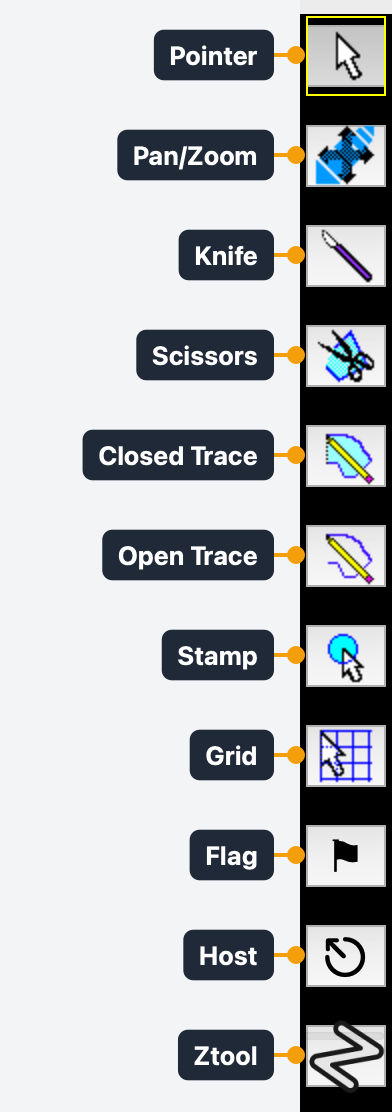
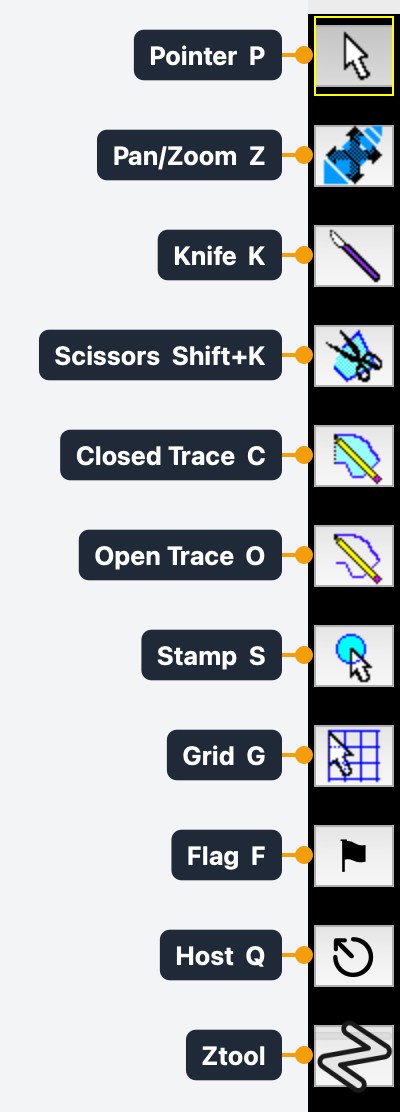
docs: User Guide pictures for updates, shortcuts on the tool palette
Section 2 gets the Help menu update rows, the update dialog (an example version that does not exist) and the status bar notice. The tool palette picture names each default shortcut, and the z-trace section says the palette calls it Ztool.

diff --git a/docs/USER_GUIDE.md b/docs/USER_GUIDE.md
@@ -195,6 +195,8 @@ changes since the previous nightly.
 
 ### Checking for updates
 
+![The update rows of the Help menu: Check for updates..., Automatically check for updates, which is checked, and Download PyReconstruct Dev (nightly)....](assets/images/user-guide/02-help-menu-updates.png)
+
 Choose **Help ▸ Check for updates…**. On an installed build, PyReconstruct checks
 GitHub Releases on the app's channel (off the main thread, so the UI stays
 responsive). If a newer build is found, an update dialog opens showing the new
@@ -207,7 +209,9 @@ the installation.
 If you are already current, you'll see a brief "You're already up to date"
 message; if no installer exists for your platform on that channel, it tells you so.
 
-> 📸 *Screenshot: the update dialog with its release-notes link and Download & Install button.*
+![The update dialog offering 9.9.9, an example version that does not exist: You have 1.25.0, channel Stable, download 178.7 MB, a Release notes for 9.9.9 link, and Later and Download & Install buttons.](assets/images/user-guide/02-update-dialog.png)
+
+The picture shows an example offer. Version 9.9.9 does not exist.
 
 ### Checking automatically on startup
 
@@ -218,6 +222,8 @@ background check at most **once per day**; if an upgrade is available,
 notice stays, across launches too, until you click it; clicking it opens the
 update just like **Help ▸ Check for updates…**. Turning the automatic check off
 also removes the notice.
+
+![The Update available notice on the right of the status bar, for the example version 9.9.9.](assets/images/user-guide/02-update-notice.png)
 
 ### Source / `pip` installs
 
@@ -465,7 +471,7 @@ In every tool except Pan/Zoom, **right-clicking the field** opens a context menu
 (for the selected traces, or for the field). The mouse wheel changes sections, and
 middle-click pans, regardless of the active tool.
 
-![The tool palette column, each button labeled with its tool: Pointer, Pan/Zoom, Knife, Scissors, Closed Trace, Open Trace, Stamp, Grid, Flag, Host and Ztool.](assets/images/user-guide/06-tool-palette-labeled.png)
+![The tool palette column, each button labeled with its tool and default shortcut: Pointer P, Pan/Zoom Z, Knife K, Scissors Shift+K, Closed Trace C, Open Trace O, Stamp S, Grid G, Flag F, Host Q, and Ztool, which has no shortcut.](assets/images/user-guide/06-tool-palette-labeled.png)
 
 The palette has eleven tools:
 
@@ -582,8 +588,8 @@ object list and can be set from the object list's context menu.
 
 ### Z-trace tool
 
-Creates a [z-trace](#3-core-concepts), a curve through the stack. Select the
-tool, then **click** points (changing sections between clicks as needed with the
+Creates a [z-trace](#3-core-concepts), a curve through the stack. The palette
+names this tool **Ztool**. Select the tool, then **click** points (changing sections between clicks as needed with the
 mouse wheel); **right-click to finish**. The new z-trace takes the current
 preset's name and color. (This tool is selected from the palette; it has no default
 keyboard shortcut.)
